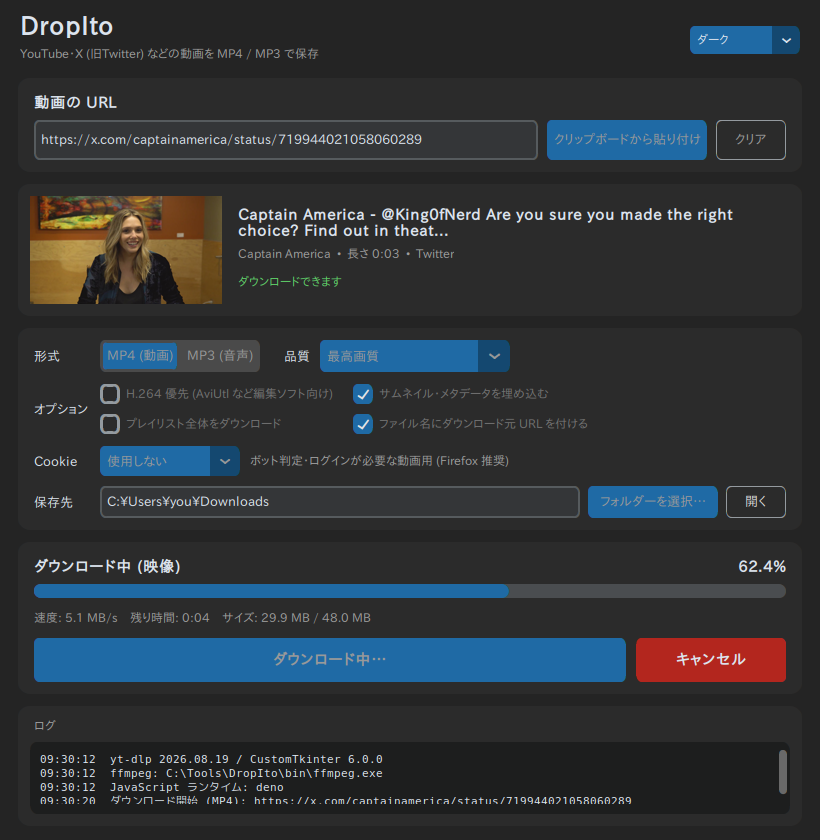
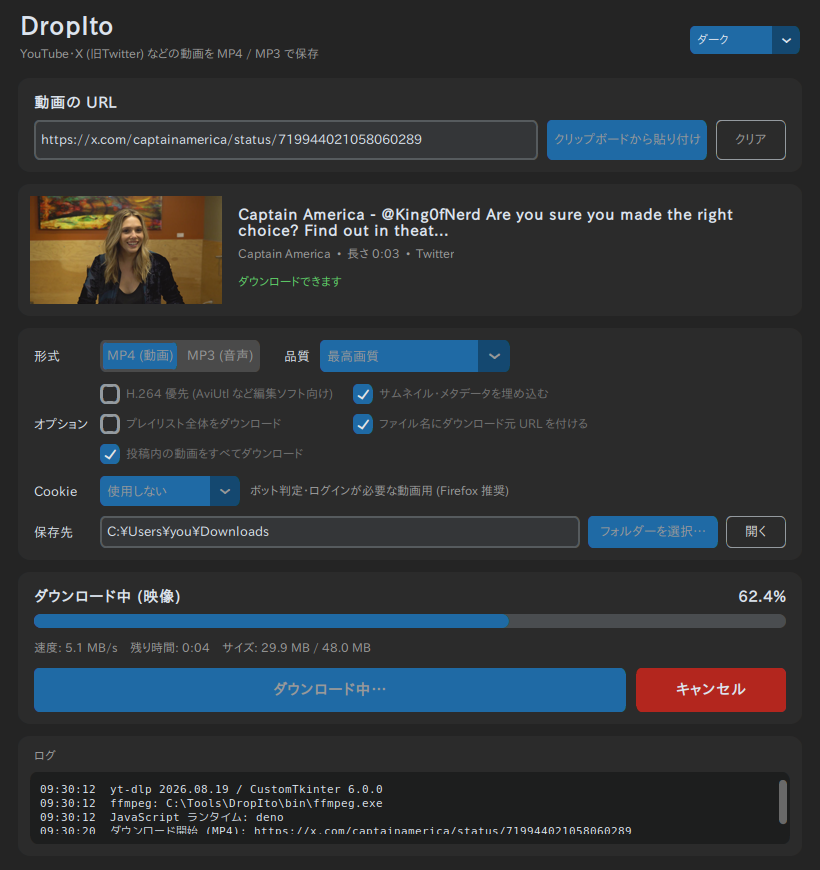
Download every video in a multi-video post
- New option "投稿内の動画をすべてダウンロード" (on by default, saved in
  settings). X share links such as ".../status/123/video/2" only fetch
  that one video; when the option is on the "/video/N" or "/photo/N"
  suffix is stripped so the whole post is downloaded. YouTube
  watch+list URLs are unaffected (still controlled by the playlist
  option). CLI: --single-video to keep the old behaviour.
- With "title -source URL" names, every video of a post shares the same
  URL, so a truncated title could drop the "#N" suffix and make names
  collide (later videos skipped as "already downloaded"). Titles are now
  cut to 80 bytes while always keeping " #N" for multi-entry results.
- Preview says "投稿内の動画 N 本をまとめてダウンロードします" for X posts.
- Window is 30px taller so the log stays visible with the extra option.

Claude-Session: https://claude.ai/code/session_01N9NhUQH6NiLBkkNwUv7qLz

diff --git a/downloader.py b/downloader.py
@@ -30,6 +30,7 @@ from enum import Enum
 from typing import Callable, Optional
 
 import yt_dlp
+from yt_dlp.postprocessor import PostProcessor
 from yt_dlp.utils import DownloadCancelled
 
 # ---------------------------------------------------------------------------
@@ -42,8 +43,10 @@ from yt_dlp.utils import DownloadCancelled
 OUTPUT_TEMPLATE = "%(title).120B [%(id)s].%(ext)s"
 
 #: 「タイトル -ダウンロード元URL」形式。URL の / : ? は Windows で使えないので
-#: yt-dlp が全角 (⧸ ： ？) に置き換える。パス長に収まるようタイトル 80 / URL 100 バイトで切る
-OUTPUT_TEMPLATE_WITH_URL = "%(title).80B -%(webpage_url).100B.%(ext)s"
+#: yt-dlp が全角 (⧸ ： ？) に置き換える。パス長に収まるようタイトル 80 / URL 100 バイトで切る。
+#: dropito_title は _FilenameFieldsPP が作る「末尾の #N を残して切ったタイトル」
+TITLE_BYTES_WITH_URL = 80
+OUTPUT_TEMPLATE_WITH_URL = "%(dropito_title,title).80B -%(webpage_url).100B.%(ext)s"
 
 #: Cookie を読み込めるブラウザ (yt-dlp の --cookies-from-browser と同じ名前)
 SUPPORTED_BROWSERS = ("firefox", "chrome", "edge", "brave", "opera", "vivaldi", "chromium")
@@ -95,6 +98,12 @@ _ERROR_HINTS = (
 
 _ANSI_RE = re.compile(r"\x1b\[[0-9;]*m")
 _URL_RE = re.compile(r"^https?://\S+$", re.IGNORECASE)
+# X (旧Twitter) の「…/status/123/video/2」「…/photo/1」。番号付きだとその 1 本しか落ちない
+_X_MEDIA_SUFFIX_RE = re.compile(
+    r"^(https?://(?:(?:www|mobile)\.)?(?:x|twitter|fxtwitter|vxtwitter|fixupx|fixvx)\.com/"
+    r"(?:i/web|i|[^/?#]+)/status(?:es)?/\d+)/(?:video|photo)/\d+/?",
+    re.IGNORECASE,
+)
 
 
 class MediaType(str, Enum):
@@ -145,6 +154,7 @@ class DownloadRequest:
     playlist: bool = False  # プレイリスト全体を保存
     cookies_browser: Optional[str] = None
     filename_with_url: bool = False  # ファイル名を「タイトル -ダウンロード元URL」にする
+    all_post_videos: bool = True  # 1 つの投稿に動画が複数あれば全部保存する
 
 
 @dataclass
@@ -258,6 +268,40 @@ def build_format_selection(request: DownloadRequest, has_ffmpeg: bool = True) ->
     # ffmpeg が無いと映像+音声を結合できないので、結合済みの単一ファイルを選ぶ
     fmt = "bv*+ba/b" if has_ffmpeg else "b[ext=mp4]/b"
     return fmt, sort
+
+
+def expand_post_url(url: str) -> str:
+    """投稿内の特定の動画を指す URL を、投稿全体の URL にする.
+
+    X では動画を開いて共有すると「…/status/123/video/1」になり、そのままだと
+    1 本しか保存されない。番号部分を外すと投稿内の動画がまとめて対象になる。
+    """
+    return _X_MEDIA_SUFFIX_RE.sub(r"\1", url.strip(), count=1)
+
+
+def fit_title(title: str, index: Optional[int] = None, count: Optional[int] = None,
+              limit: int = TITLE_BYTES_WITH_URL) -> str:
+    """タイトルを limit バイト (UTF-8) に収める.
+
+    複数動画の投稿やプレイリストでは末尾に " #番号" を必ず残す。同じ投稿の動画は
+    URL が同じなので、切ったときに番号まで消えるとファイル名がかぶってしまうため。
+    """
+    suffix = ""
+    if index and count and count > 1:
+        suffix = f" #{index}"
+        if title.endswith(suffix):
+            title = title[: -len(suffix)]
+    budget = max(limit - len(suffix.encode("utf-8")), 1)
+    return title.encode("utf-8")[:budget].decode("utf-8", "ignore") + suffix
+
+
+class _FilenameFieldsPP(PostProcessor):
+    """ファイル名を決める直前 (when="video") に dropito_title を用意する."""
+
+    def run(self, info):
+        count = info.get("n_entries") or info.get("playlist_count")
+        info["dropito_title"] = fit_title(info.get("title") or info.get("id") or "", info.get("playlist_index"), count)
+        return [], info
 
 
 def output_template(request: DownloadRequest) -> str:
@@ -413,6 +457,7 @@ def fetch_info(
     url: str,
     cookies_browser: Optional[str] = None,
     playlist: bool = False,
+    all_post_videos: bool = True,
     with_thumbnail: bool = True,
     logger: Optional[LogCallback] = None,
 ) -> MediaInfo:
@@ -423,6 +468,8 @@ def fetch_info(
     url = url.strip()
     if not is_valid_url(url):
         raise ValueError(f"{url!r} is not a valid URL")
+    if all_post_videos:
+        url = expand_post_url(url)
 
     opts = {
         "skip_download": True,
@@ -573,10 +620,17 @@ class DownloadTask:
         _hide_path(temp_dir)
         opts["paths"]["temp"] = temp_dir
 
+        url = request.url.strip()
+        if request.all_post_videos and expand_post_url(url) != url:
+            url = expand_post_url(url)
+            self._log("info", f"投稿内のすべての動画を保存します: {url}")
+
         self._emit(ProgressUpdate(Stage.PREPARING, message="動画情報を取得中…"), force=True)
         try:
             with yt_dlp.YoutubeDL(opts) as ydl:
-                info = ydl.extract_info(request.url, download=True)
+                if request.filename_with_url:
+                    ydl.add_post_processor(_FilenameFieldsPP(), when="video")
+                info = ydl.extract_info(url, download=True)
             if self.cancel_requested:
                 raise UserCancelled()
         except Exception as exc:
@@ -770,6 +824,8 @@ def _cli(argv: Optional[list] = None) -> int:
     parser.add_argument("--playlist", action="store_true", help="プレイリスト全体を保存")
     parser.add_argument("--cookies-from-browser", choices=SUPPORTED_BROWSERS)
     parser.add_argument("--url-in-name", action="store_true", help="ファイル名を「タイトル -ダウンロード元URL」にする")
+    parser.add_argument("--single-video", action="store_true",
+                        help="「…/video/2」のような URL で、投稿内のその 1 本だけを保存する")
     parser.add_argument("--info", action="store_true", help="情報を表示するだけ")
     args = parser.parse_args(argv)
 
@@ -778,7 +834,8 @@ def _cli(argv: Optional[list] = None) -> int:
             print(f"\n[{level}] {message}", file=sys.stderr)
 
     if args.info:
-        info = fetch_info(args.url, cookies_browser=args.cookies_from_browser, playlist=args.playlist, logger=log)
+        info = fetch_info(args.url, cookies_browser=args.cookies_from_browser, playlist=args.playlist,
+                          all_post_videos=not args.single_video, logger=log)
         print(f"タイトル : {info.title}")
         print(f"投稿者   : {info.uploader}")
         print(f"長さ     : {format_duration(info.duration)}")
@@ -808,6 +865,7 @@ def _cli(argv: Optional[list] = None) -> int:
         playlist=args.playlist,
         cookies_browser=args.cookies_from_browser,
         filename_with_url=args.url_in_name,
+        all_post_videos=not args.single_video,
     )
     result = DownloadTask(request, on_progress=progress, on_log=log).run()
     print()

diff --git a/tests/test_downloader.py b/tests/test_downloader.py
@@ -20,6 +20,7 @@ import downloader as dl
 from downloader import DownloadRequest, DownloadTask, MediaType, Outcome, Stage
 
 X_URL = "https://x.com/captainamerica/status/719944021058060289"  # 3 秒の動画付きポスト
+X_MULTI = "https://x.com/UltimaShadowX/status/1577719286659006464"  # 動画 4 本のポスト
 YOUTUBE_URL = "https://www.youtube.com/watch?v=jNQXAC9IVRw"  # Me at the zoo (19 秒)
 DIRECT_SMALL = "https://test-videos.co.uk/vids/bigbuckbunny/mp4/h264/360/Big_Buck_Bunny_360_10s_1MB.mp4"
 DIRECT_LARGE = "https://test-videos.co.uk/vids/bigbuckbunny/mp4/h264/1080/Big_Buck_Bunny_1080_10s_30MB.mp4"
@@ -92,7 +93,7 @@ class TestOptions:
         plain = dl.build_ydl_options(DownloadRequest("https://a.b/c", "."), ffmpeg_path="ffmpeg")
         with_url = dl.build_ydl_options(DownloadRequest("https://a.b/c", ".", filename_with_url=True), ffmpeg_path="ffmpeg")
         assert plain["outtmpl"]["default"] == "%(title).120B [%(id)s].%(ext)s"
-        assert with_url["outtmpl"]["default"] == "%(title).80B -%(webpage_url).100B.%(ext)s"
+        assert with_url["outtmpl"]["default"] == "%(dropito_title,title).80B -%(webpage_url).100B.%(ext)s"
 
     def test_filename_with_url_is_windows_safe(self):
         import yt_dlp
@@ -125,6 +126,42 @@ class TestOptions:
 # ---------------------------------------------------------------------------
 # オフライン: ヘルパー
 # ---------------------------------------------------------------------------
+
+
+class TestMultiVideoPost:
+    @pytest.mark.parametrize("url, expected", [
+        ("https://x.com/u/status/123/video/2", "https://x.com/u/status/123"),
+        ("https://x.com/u/status/123/photo/1?s=20", "https://x.com/u/status/123?s=20"),
+        ("https://twitter.com/u/status/123/video/1/", "https://twitter.com/u/status/123"),
+        ("https://mobile.twitter.com/u/status/123/video/3", "https://mobile.twitter.com/u/status/123"),
+        ("https://x.com/i/status/123/video/1", "https://x.com/i/status/123"),
+        ("https://x.com/i/web/status/123/video/1", "https://x.com/i/web/status/123"),
+        ("  https://x.com/u/status/123  ", "https://x.com/u/status/123"),
+        ("https://x.com/u/status/123", "https://x.com/u/status/123"),
+        ("https://www.youtube.com/watch?v=abc&list=PL1", "https://www.youtube.com/watch?v=abc&list=PL1"),
+        ("https://example.com/u/status/123/video/2", "https://example.com/u/status/123/video/2"),
+    ])
+    def test_expand_post_url(self, url, expected):
+        assert dl.expand_post_url(url) == expected
+
+    def test_fit_title_short(self):
+        assert dl.fit_title("abc") == "abc"
+        assert dl.fit_title("abc #2", index=2, count=4) == "abc #2"
+
+    def test_fit_title_keeps_index_when_truncated(self):
+        long = "User - " + "あ" * 60 + " #3"
+        fitted = dl.fit_title(long, index=3, count=4)
+        assert fitted.endswith("あ #3")
+        assert len(fitted.encode("utf-8")) <= dl.TITLE_BYTES_WITH_URL
+        fitted.encode("utf-8").decode("utf-8")  # マルチバイト文字の途中で切れていない
+
+    def test_fit_title_adds_index_for_playlists(self):
+        assert dl.fit_title("x" * 200, index=12, count=40).endswith("x #12")
+        assert dl.fit_title("x" * 200, index=1, count=1) == "x" * dl.TITLE_BYTES_WITH_URL
+
+    def test_filename_fields_pp(self):
+        _, info = dl._FilenameFieldsPP().run({"title": "t" * 100 + " #2", "playlist_index": 2, "n_entries": 4})
+        assert info["dropito_title"].endswith("t #2")
 
 
 class TestHelpers:
@@ -347,6 +384,24 @@ class TestDownload:
         assert " -https" in name and "x.com⧸captainamerica⧸status⧸719944021058060289" in name
         assert name.endswith(".mp4")
         assert os.listdir(tmp_path) == [name]
+
+    def test_x_video_url_downloads_whole_post(self, tmp_path):
+        # 「…/video/2」の URL でも、投稿内の 4 本をまとめて保存する (URL 付きの名前でもかぶらない)
+        req = DownloadRequest(X_MULTI + "/video/2", str(tmp_path), embed_thumbnail=False, filename_with_url=True)
+        result, updates, _ = run_task(req)
+        assert result.outcome is Outcome.COMPLETED, result.error
+        names = sorted(os.path.basename(p) for p in result.files)
+        assert names == [f"Ultima - Test #{i} -https：⧸⧸x.com⧸UltimaShadowX⧸status⧸1577719286659006464.mp4"
+                         for i in range(1, 5)]
+        assert sorted(os.listdir(tmp_path)) == names
+        assert {(u.item_index, u.item_count) for u in updates if u.item_count} >= {(1, 4), (4, 4)}
+
+    def test_x_single_video_mode(self, tmp_path):
+        req = DownloadRequest(X_MULTI + "/video/2", str(tmp_path), embed_thumbnail=False, all_post_videos=False)
+        result, _, _ = run_task(req)
+        assert result.outcome is Outcome.COMPLETED, result.error
+        (path,) = result.files
+        assert "[1577719236201414657]" in path  # 2 本目の動画
 
     def test_x_mp3_leaves_only_mp3(self, tmp_path):
         result, _, _ = run_task(DownloadRequest(X_URL, str(tmp_path), media_type=MediaType.AUDIO))

diff --git a/ui.py b/ui.py
@@ -104,8 +104,8 @@ class DropItoApp(ctk.CTk):
         super().__init__()
 
         self.title(f"{APP_NAME} - 動画・音声ダウンローダー")
-        self.geometry("820x840")
-        self.minsize(700, 760)
+        self.geometry("820x870")
+        self.minsize(700, 790)
         self._set_window_icon()
 
         self._events: "queue.Queue[tuple]" = queue.Queue()
@@ -258,6 +258,7 @@ class DropItoApp(ctk.CTk):
         self.embed_var = tk.BooleanVar()
         self.playlist_var = tk.BooleanVar()
         self.url_name_var = tk.BooleanVar()
+        self.all_videos_var = tk.BooleanVar()
         check_opts = {"font": self.font_small, "checkbox_width": 20, "checkbox_height": 20}
         self.h264_check = ctk.CTkCheckBox(
             checks, text="H.264 優先 (AviUtl など編集ソフト向け)", variable=self.h264_var, **check_opts)
@@ -272,6 +273,10 @@ class DropItoApp(ctk.CTk):
         self.url_name_check = ctk.CTkCheckBox(
             checks, text="ファイル名にダウンロード元 URL を付ける", variable=self.url_name_var, **check_opts)
         self.url_name_check.grid(row=1, column=1, sticky="w")
+        self.all_videos_check = ctk.CTkCheckBox(
+            checks, text="投稿内の動画をすべてダウンロード", variable=self.all_videos_var,
+            command=lambda: self._schedule_preview(delay=0), **check_opts)
+        self.all_videos_check.grid(row=2, column=0, sticky="w", pady=(6, 0))
 
         ctk.CTkLabel(opts, text="Cookie", **label_opts).grid(row=2, **head)
         cookie_row = ctk.CTkFrame(opts, fg_color="transparent")
@@ -373,6 +378,7 @@ class DropItoApp(ctk.CTk):
         self.embed_var.set(s.embed_thumbnail)
         self.playlist_var.set(s.playlist)
         self.url_name_var.set(s.filename_with_url)
+        self.all_videos_var.set(s.all_post_videos)
         self.cookie_menu.set(self._label_for(COOKIE_BROWSERS, s.cookies_browser, "使用しない"))
         self.appearance_menu.set(self._label_for(APPEARANCES, s.appearance, "ダーク"))
         self.output_var.set(s.output_dir)
@@ -386,6 +392,7 @@ class DropItoApp(ctk.CTk):
         s.embed_thumbnail = self.embed_var.get()
         s.playlist = self.playlist_var.get()
         s.filename_with_url = self.url_name_var.get()
+        s.all_post_videos = self.all_videos_var.get()
         s.cookies_browser = COOKIE_BROWSERS[self.cookie_menu.get()]
         s.appearance = APPEARANCES[self.appearance_menu.get()]
         s.output_dir = self.output_var.get().strip() or s.output_dir
@@ -504,6 +511,7 @@ class DropItoApp(ctk.CTk):
             lambda info, error: self._events.put(("preview", (token, info, error))),
             cookies_browser=COOKIE_BROWSERS[self.cookie_menu.get()] or None,
             playlist=self.playlist_var.get(),
+            all_post_videos=self.all_videos_var.get(),
         )
 
     def _show_preview_placeholder(self, message: str = "", error: bool = False) -> None:
@@ -527,14 +535,20 @@ class DropItoApp(ctk.CTk):
         parts = []
         if info.uploader:
             parts.append(info.uploader)
-        if info.is_playlist:
+        # X などの「1 つの投稿に複数の動画」も yt-dlp ではプレイリスト扱いになる
+        is_post = info.is_playlist and info.extractor.lower() == "twitter"
+        if is_post:
+            parts.append(f"この投稿の動画 {info.entry_count or '?'} 本")
+        elif info.is_playlist:
             parts.append(f"プレイリスト {info.entry_count or '?'} 件")
         elif info.duration:
             parts.append(f"長さ {format_duration(info.duration)}")
         if info.extractor:
             parts.append(info.extractor)
         self.meta_label.configure(text="  •  ".join(parts))
-        if info.is_playlist:
+        if is_post:
+            status = f"投稿内の動画 {info.entry_count or '全'} 本をまとめてダウンロードします"
+        elif info.is_playlist:
             status = f"プレイリストの {info.entry_count or '全'} 件をダウンロードします"
         else:
             status = "ダウンロードできます"
@@ -600,6 +614,7 @@ class DropItoApp(ctk.CTk):
             embed_thumbnail=s.embed_thumbnail,
             playlist=s.playlist,
             filename_with_url=s.filename_with_url,
+            all_post_videos=s.all_post_videos,
             cookies_browser=s.cookies_browser or None,
         )
         self._task = DownloadTask(
@@ -628,7 +643,8 @@ class DropItoApp(ctk.CTk):
         state = "disabled" if busy else "normal"
         for widget in (
             self.url_entry, self.paste_btn, self.clear_btn, self.format_switch, self.quality_menu,
-            self.h264_check, self.embed_check, self.playlist_check, self.url_name_check, self.cookie_menu,
+            self.h264_check, self.embed_check, self.playlist_check, self.url_name_check,
+            self.all_videos_check, self.cookie_menu,
             self.output_entry, self.browse_btn, self.download_btn,
         ):
             widget.configure(state=state)

diff --git a/tests/test_ui.py b/tests/test_ui.py
@@ -109,12 +109,14 @@ def test_settings_roundtrip(app, tmp_path):
     app.cookie_menu.set("Firefox")
     app.output_var.set(str(tmp_path))
     assert app.url_name_var.get() is True  # 既定はオン
+    assert app.all_videos_var.get() is True
     app.url_name_var.set(False)
+    app.all_videos_var.set(False)
     app._save_settings()
 
     loaded = Settings.load()
     assert (loaded.media_type, loaded.audio_bitrate, loaded.cookies_browser, loaded.output_dir,
-            loaded.filename_with_url) == ("mp3", 192, "firefox", str(tmp_path), False)
+            loaded.filename_with_url, loaded.all_post_videos) == ("mp3", 192, "firefox", str(tmp_path), False, False)
 
 
 def test_stage_change_is_not_coalesced_away(app):

diff --git a/settings.py b/settings.py
@@ -56,6 +56,7 @@ class Settings:
     playlist: bool = False
     cookies_browser: str = ""  # "" = 使わない
     filename_with_url: bool = True  # ファイル名を「タイトル -ダウンロード元URL」にする
+    all_post_videos: bool = True  # 1 つの投稿に動画が複数あれば全部保存する
     appearance: str = "dark"  # "dark" / "light" / "system"
 
     @classmethod
